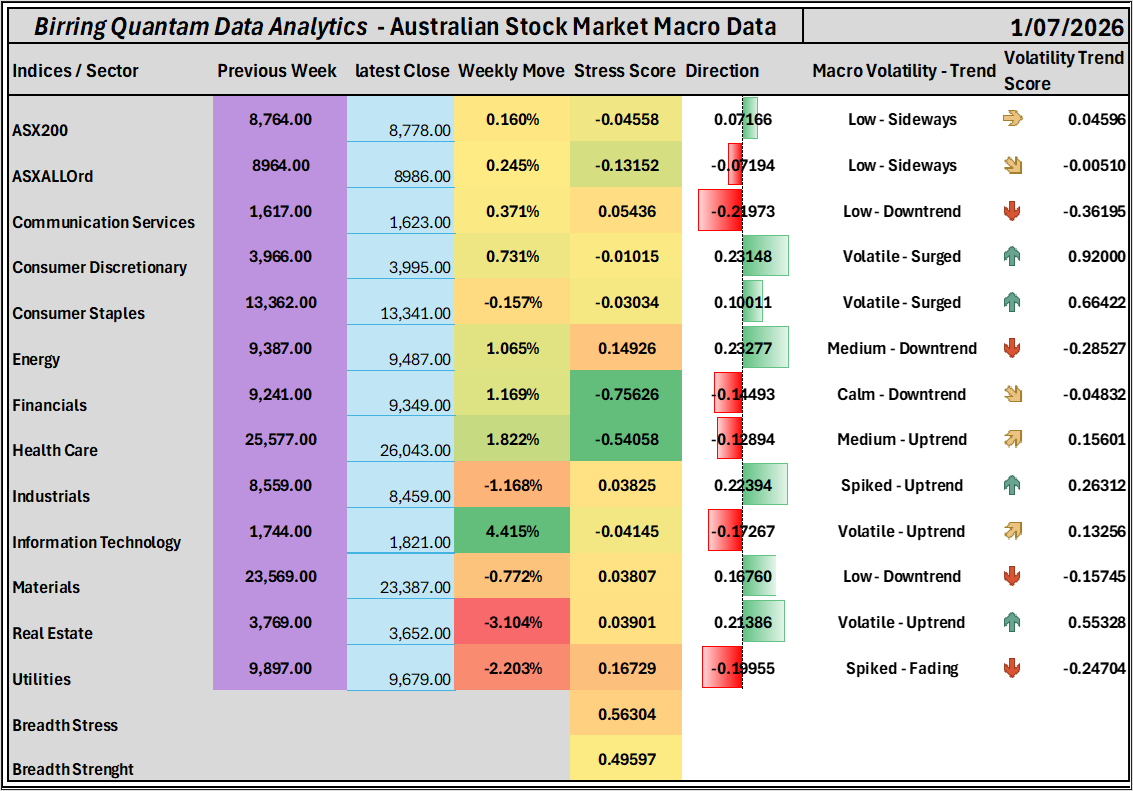
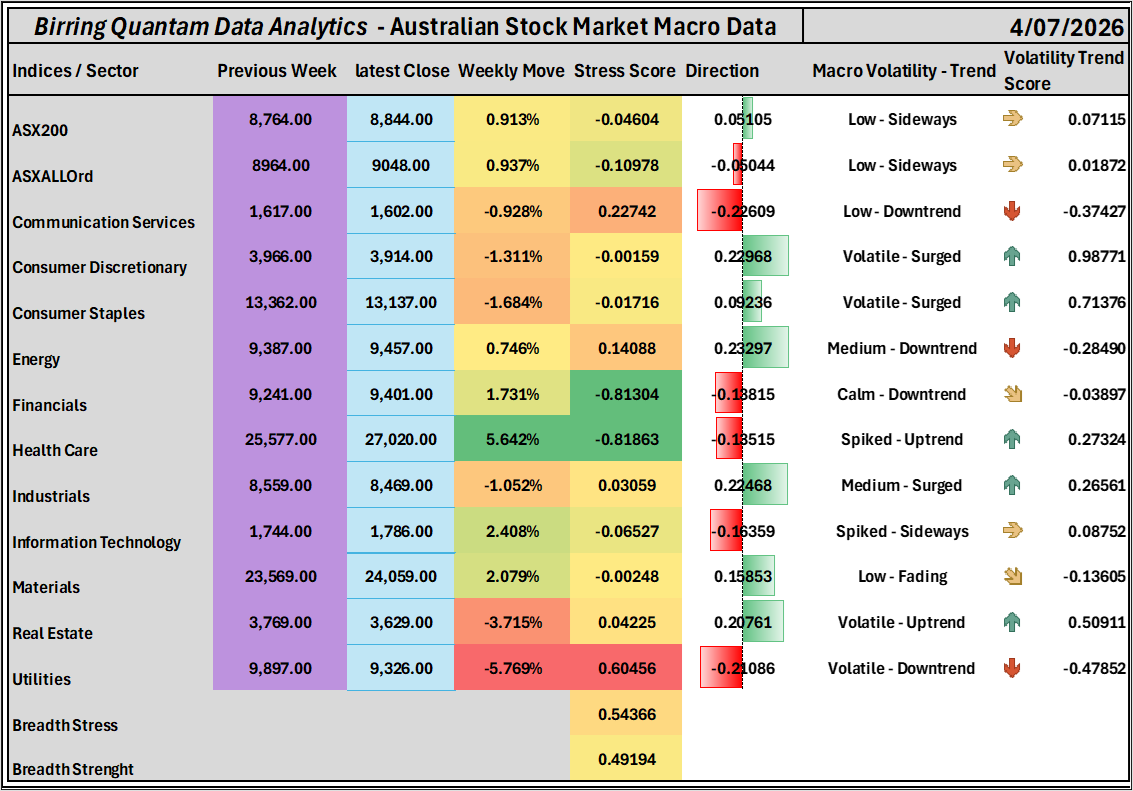
Updates

diff --git a/components/DynamicLookup.tsx b/components/DynamicLookup.tsx
@@ -3,6 +3,8 @@
 import { useState, useEffect, Suspense } from "react";
 import { useSearchParams } from "next/navigation";
 
+import styles from "./LookupGrid.module.css";
+
 import SearchBar from "@/components/SearchBar";
 import StockInfoBlock from "@/components/blocks/StockInfoBlock";
 import PriceProfileBlock from "@/components/blocks/PriceProfileBlock";
@@ -12,8 +14,6 @@ import SupportingIndicatorsBlock from "@/components/blocks/SupportingIndicatorsB
 import RiskBlock from "@/components/blocks/RiskBlock";
 import MacroMicroBlock from "@/components/blocks/MacroMicroBlock";
 import SecondarySupportSignalsBlock from "@/components/blocks/SecondarySupportSignalsBlock";
-
-import styles from "./lookup.module.css";   // ✅ Step 2
 
 function LookupContent() {
   const [results, setResults] = useState<any[]>([]);
@@ -45,37 +45,40 @@ function LookupContent() {
           <h2>Results</h2>
 
           {results.map((row, index) => (
-            <div key={index} className={styles.gridContainer}>   {/* ✅ Step 3 */}
-
-              <div className={styles.fullWidth}>                 {/* ✅ Step 4 */}
+            <div key={index} className={styles.grid}>
+              
+              {/* FULL WIDTH */}
+              <div className={styles.fullWidth}>
                 <StockInfoBlock row={row} />
               </div>
 
-              <div className={styles.fullWidth}>                 {/* ✅ Step 4 */}
+              <div className={styles.fullWidth}>
                 <MainVerdictBlock row={row} />
               </div>
 
-              <div style={{ maxWidth: "700px", width: "100%" }}>
+              {/* FIRST PAIR */}
+              <div className={styles.block550}>
                 <PriceProfileBlock row={row} />
               </div>
 
-              <div style={{ maxWidth: "600px", width: "100%" }}>
+              <div className={styles.block550}>
                 <SupportingIndicatorsBlock row={row} />
               </div>
 
-              <div style={{ maxWidth: "500px", width: "100%" }}>
+              {/* AUTO-FIT REMAINING */}
+              <div className={styles.block500}>
                 <PriceLimitsBlock row={row} />
               </div>
 
-              <div style={{ maxWidth: "500px", width: "100%" }}>
+              <div className={styles.block500}>
                 <SecondarySupportSignalsBlock row={row} />
               </div>
 
-              <div style={{ maxWidth: "600px", width: "100%" }}>
+              <div className={styles.block550}>
                 <RiskBlock row={row} />
               </div>
 
-              <div style={{ maxWidth: "600px", width: "100%" }}>
+              <div className={styles.block550}>
                 <MacroMicroBlock row={row} />
               </div>
 

diff --git a/app/macro/page.tsx b/app/macro/page.tsx
@@ -17,11 +17,27 @@ export default function MacroPage() {
       <h1 style={{ marginBottom: "20px", fontSize: "32px", fontWeight: "bold" }}>
         Macro Data Overview
       </h1>
+      <h2 style={{ marginBottom: "20px", fontSize: "20px", fontWeight: "bold" }}>
+        Macro data is systematically measured and compiled across the market and individual sectors, providing a unified view of directional momentum, trend development, and volatility behaviour.
+      
+      </h2>
 
       {/* Responsive Macro Image */}
       <img
         src="/macro-signal.png"
         alt="Macro Signal"
+        style={{
+          width: "100%",
+          maxWidth: "1000px",
+          height: "auto",
+          margin: "20px auto",
+          display: "block",
+        }}
+      />
+
+      <img
+        src="/macro-chart.png"
+        alt="Macro Chart"
         style={{
           width: "100%",
           maxWidth: "1000px",

diff --git a/components/blocks/MacroMicroBlock.tsx b/components/blocks/MacroMicroBlock.tsx
@@ -32,8 +32,8 @@ export default function MacroMicroBlock({ row }: { row: any }) {
         boxShadow: "0 1px 3px rgba(0,0,0,0.12)",
         color: "#061126",
         width: "100%",
-        maxWidth: "600px",            // button-sized
-        minWidth: "500px",
+        maxWidth: "550px",            // button-sized
+        minWidth: "400px",
         marginBottom: "20px",
       }}
     >

diff --git a/components/blocks/PriceProfileBlock.tsx b/components/blocks/PriceProfileBlock.tsx
@@ -82,8 +82,8 @@ export default function PriceProfileBlock({ row }: { row: any }) {
         boxShadow: "0 1px 3px rgba(0,0,0,0.12)",
         color: "#333",
         width: "100%",
-        maxWidth: "600px",
-        minWidth: "550px",
+        maxWidth: "550px",
+        minWidth: "450px",
       }}
     >
       <div

diff --git a/components/blocks/SupportingIndicatorsBlock.tsx b/components/blocks/SupportingIndicatorsBlock.tsx
@@ -104,8 +104,8 @@ if (type === "tmove") {
         boxShadow: "0 1px 3px rgba(0,0,0,0.12)",
         color: "#061126",
         width: "100%",
-        maxWidth: "800px",
-        minWidth: "600px",
+        maxWidth: "550px",
+        minWidth: "400px",
         marginBottom: "20px",
       }}
     >